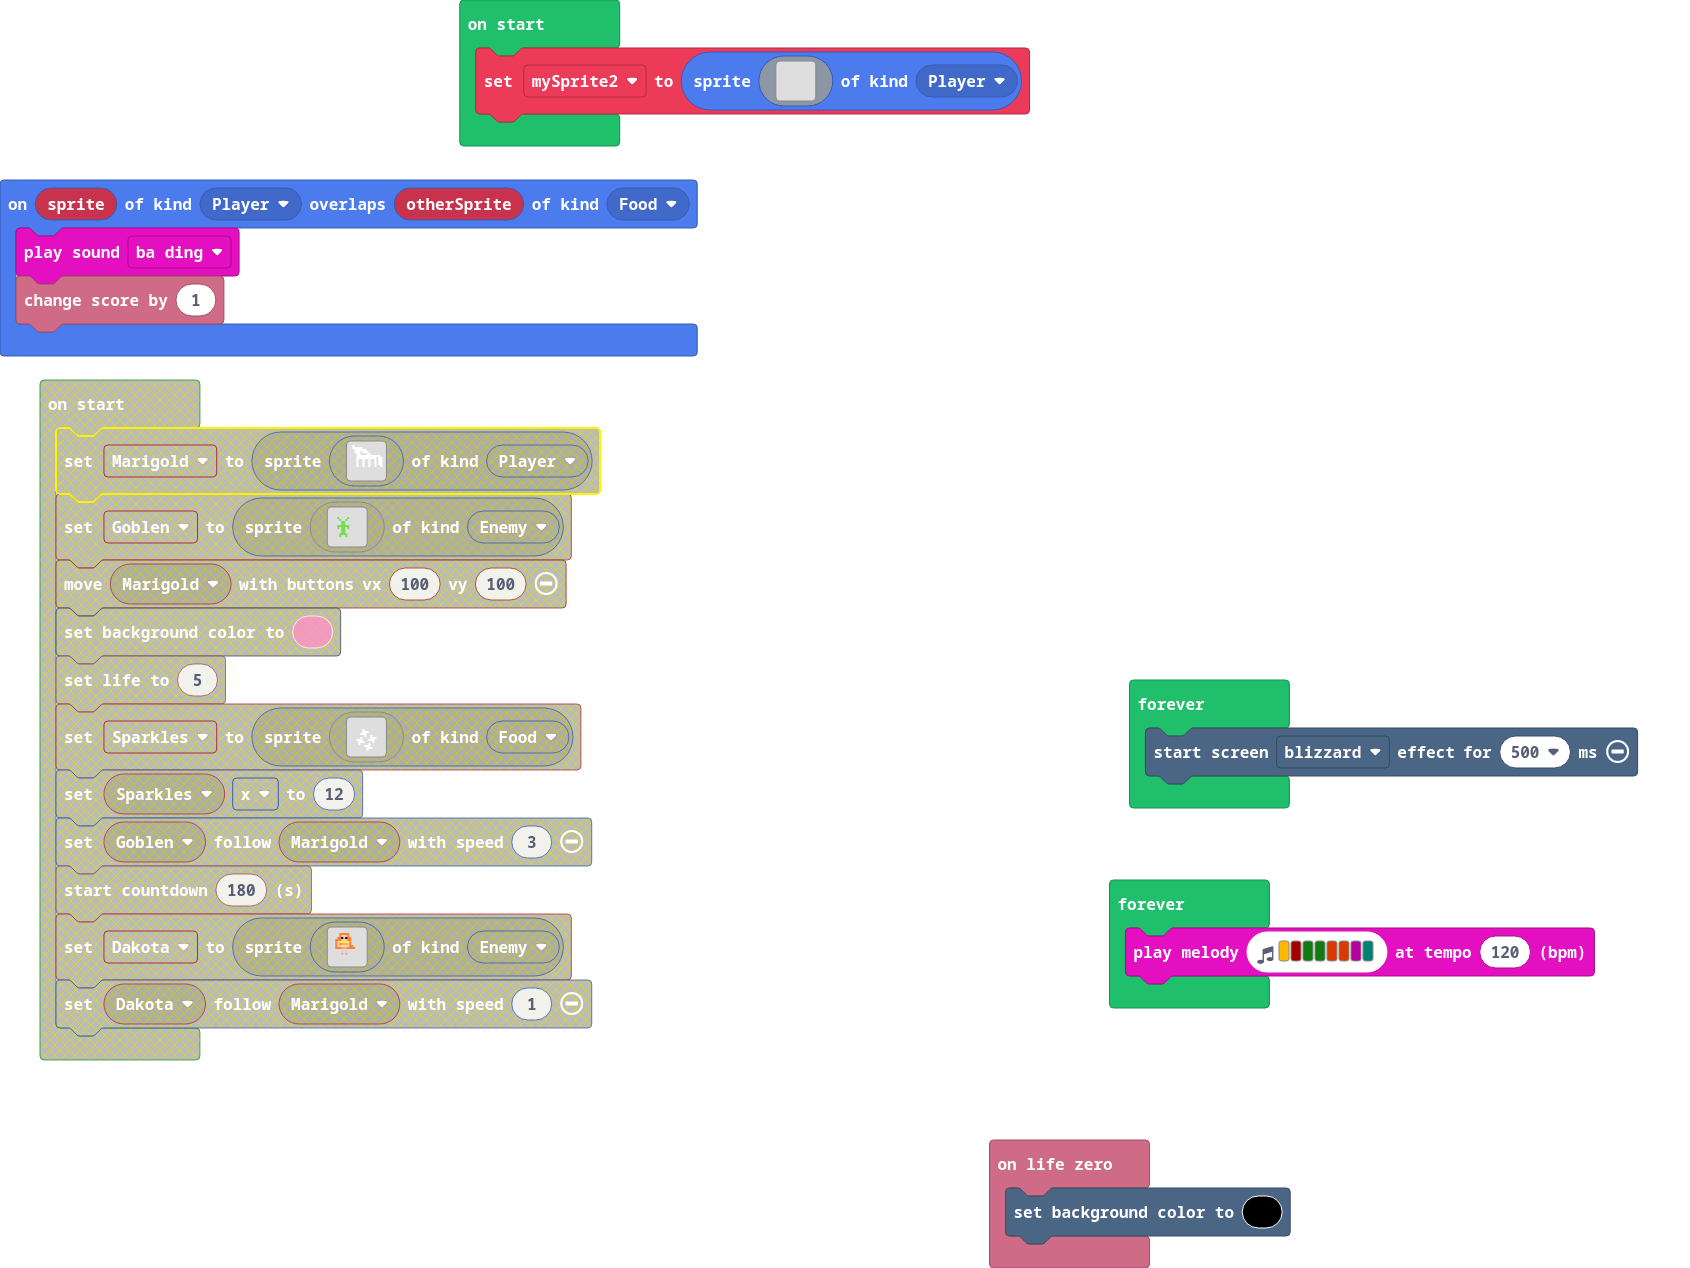
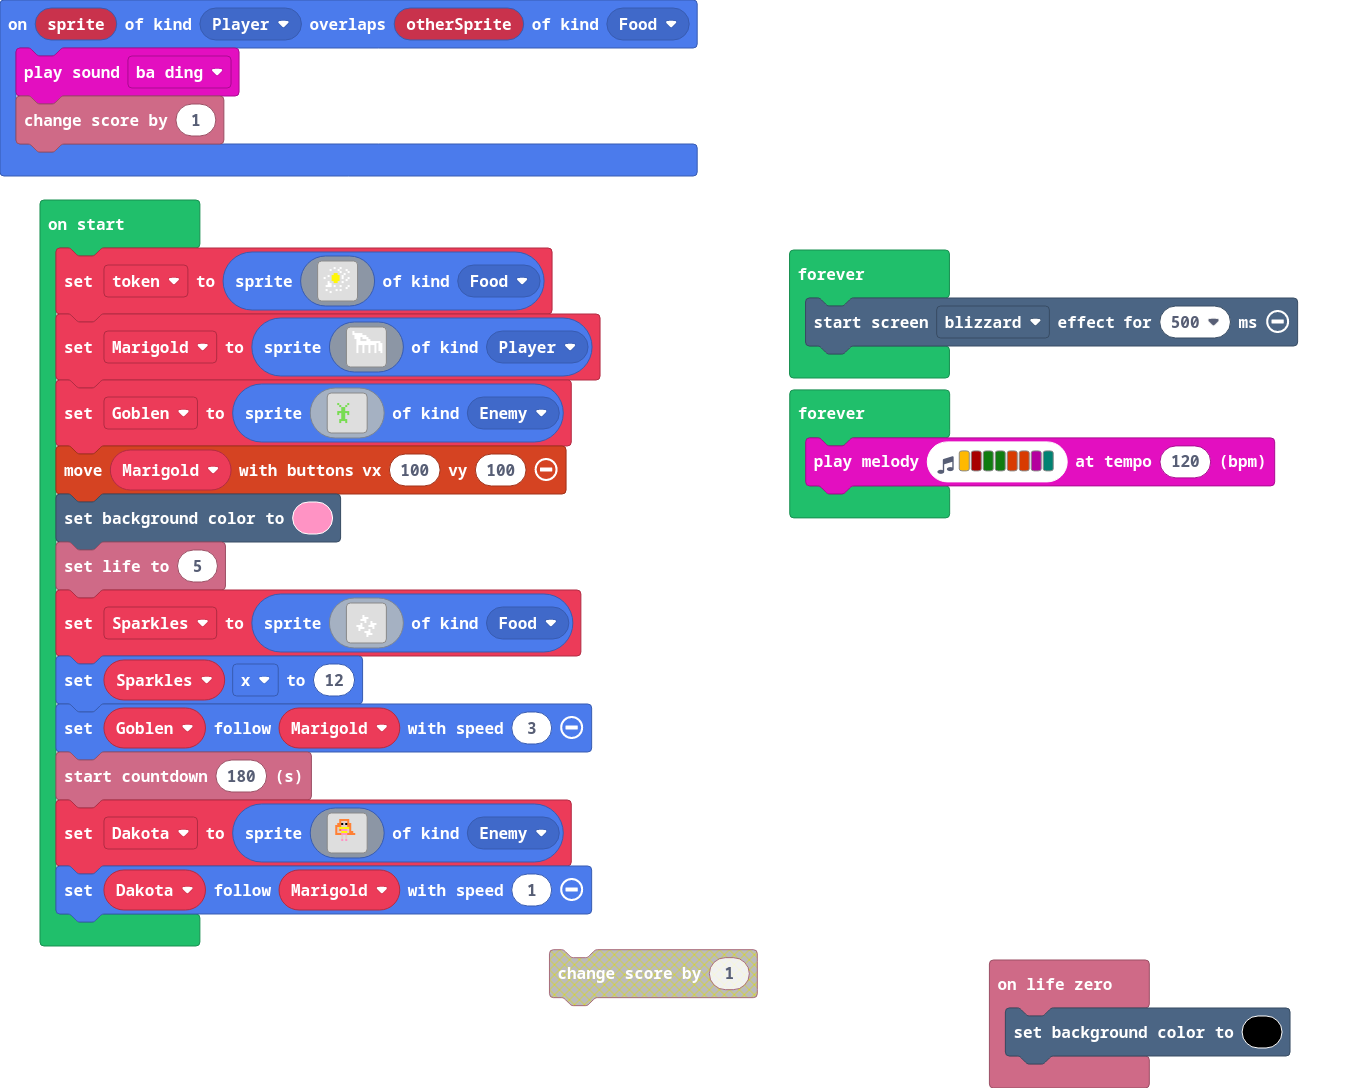
Update main.blocks, main.ts

diff --git a/main.ts b/main.ts
@@ -5,24 +5,103 @@ sprites.onOverlap(SpriteKind.Player, SpriteKind.Food, function (sprite, otherSpr
     music.baDing.play()
     info.changeScoreBy(1)
 })
-let mySprite2 = sprites.create(img`
+let token = sprites.create(img`
+    . . . . . . . . . . . . . . . . 
+    . . . . . . 1 . . 1 . . . . . . 
+    . . . . 1 . . . 1 . . . 1 . . . 
+    . . . . . . . . . 1 . . . 1 . . 
+    . . . . . . 5 5 . . . 1 . . . . 
+    . . . 1 . 5 5 5 5 . 1 . . . . . 
+    . 1 . . . 5 5 5 5 . 1 . . 1 . . 
+    . . . . . 5 5 5 5 . . . 1 . . . 
+    . . . 1 . . 5 5 . . 1 . . . . . 
+    . . . 1 1 . . . . . . . . . . . 
+    . . 1 1 1 . 1 . . 1 . . . 1 . . 
+    . . . . . . . . . . . . 1 . . . 
+    . . 1 . . . . 1 . 1 . . . . . . 
+    . . . . 1 . . . . . . . . . . . 
     . . . . . . . . . . . . . . . . 
     . . . . . . . . . . . . . . . . 
-    . . . . . . . . . . . . . . . . 
-    . . . . . . . . . . . . . . . . 
-    . . . . . . . . . . . . . . . . 
-    . . . . . . . . . . . . . . . . 
-    . . . . . . . . . . . . . . . . 
-    . . . . . . . . . . . . . . . . 
-    . . . . . . . . . . . . . . . . 
-    . . . . . . . . . . . . . . . . 
-    . . . . . . . . . . . . . . . . 
+    `, SpriteKind.Food)
+let Marigold = sprites.create(img`
+    . 1 . . . . . . . . . . . . . . 
+    . 1 1 1 1 1 . . . . . . . . . . 
+    . . 1 1 1 1 1 1 . . . . . . . . 
+    . . 1 1 1 . 1 1 1 . . . . . . . 
+    . . . 1 1 . . . 1 1 . . . . . . 
+    . . . 1 1 1 1 1 1 1 1 1 1 1 1 . 
+    . . . 1 1 1 1 1 1 1 1 1 1 . 1 1 
+    . . . 1 . . 1 . . 1 . . 1 . 1 1 
+    . . . 1 . . 1 . . 1 . . 1 . 1 1 
+    . . . 1 . . 1 . . 1 . . 1 . 1 1 
+    . . . 1 . . 1 . . 1 . . 1 . . 1 
     . . . . . . . . . . . . . . . . 
     . . . . . . . . . . . . . . . . 
     . . . . . . . . . . . . . . . . 
     . . . . . . . . . . . . . . . . 
     . . . . . . . . . . . . . . . . 
     `, SpriteKind.Player)
+let Goblen = sprites.create(img`
+    . . . . . . . . . . . . . . . . 
+    . . . . . . . . . . . . . . . . 
+    . . . . . . . . . . . . . . . . 
+    . . . 7 . . . . 7 . . . . . . . 
+    . . . . 7 . . 7 . . . . . . . . 
+    . . . . . 7 7 . . . . . . . . . 
+    . . . . . 7 7 . . . . . . . . . 
+    . . . 7 7 7 7 7 7 . . . . . . . 
+    . . . 7 . 7 7 . 7 . . . . . . . 
+    . . . . . 7 7 . . . . . . . . . 
+    . . . . . 7 7 . . . . . . . . . 
+    . . . . 7 7 7 7 . . . . . . . . 
+    . . . . 7 . . 7 . . . . . . . . 
+    . . . . . . . . . . . . . . . . 
+    . . . . . . . . . . . . . . . . 
+    . . . . . . . . . . . . . . . . 
+    `, SpriteKind.Enemy)
+controller.moveSprite(Marigold, 100, 100)
+scene.setBackgroundColor(3)
+info.setLife(5)
+let Sparkles = sprites.create(img`
+    . . . . . . . . . . . . . . . . 
+    . . . . . . . . . . . . . . . . 
+    . . . . . . . . . . . . . . . . 
+    . . . . . . . . . . . . . . . . 
+    . . . . . . 1 . . . . . . . . . 
+    . . . . . . 1 1 1 . . . . . . . 
+    . . . . . 1 1 1 . . . . . . . . 
+    . . . . . . . 1 . . 1 . . . . . 
+    . . . . . 1 . . . . 1 1 1 . . . 
+    . . . 1 1 1 . . . 1 1 1 . . . . 
+    . . . . 1 1 1 . . . . 1 . . . . 
+    . . . . 1 . . . . 1 . . . . . . 
+    . . . . . . . 1 1 1 . . . . . . 
+    . . . . . . . . 1 1 1 . . . . . 
+    . . . . . . . . 1 . . . . . . . 
+    . . . . . . . . . . . . . . . . 
+    `, SpriteKind.Food)
+Sparkles.x = 12
+Goblen.follow(Marigold, 3)
+info.startCountdown(180)
+let Dakota = sprites.create(img`
+    . . . . . . . . . . . . . . . . 
+    . . . . 4 4 4 4 4 . . . . . . . 
+    . . . . 4 d d d 4 . . . . . . . 
+    . . . 4 4 f d f 4 4 . . . . . . 
+    . . 4 4 4 d d d 4 4 . . . . . . 
+    . . 4 d 5 5 5 5 5 4 . . . . . . 
+    . . 4 d 4 3 3 3 d 4 . . . . . . 
+    . . 4 d d 5 5 5 d 4 4 . . . . . 
+    . . 4 4 4 3 3 3 4 4 4 4 . . . . 
+    . . . . . d . d . . . . . . . . 
+    . . . . . d . d . . . . . . . . 
+    . . . . . 3 . 3 . . . . . . . . 
+    . . . . . . . . . . . . . . . . 
+    . . . . . . . . . . . . . . . . 
+    . . . . . . . . . . . . . . . . 
+    . . . . . . . . . . . . . . . . 
+    `, SpriteKind.Enemy)
+Dakota.follow(Marigold, 1)
 forever(function () {
     effects.blizzard.startScreenEffect(500)
 })
